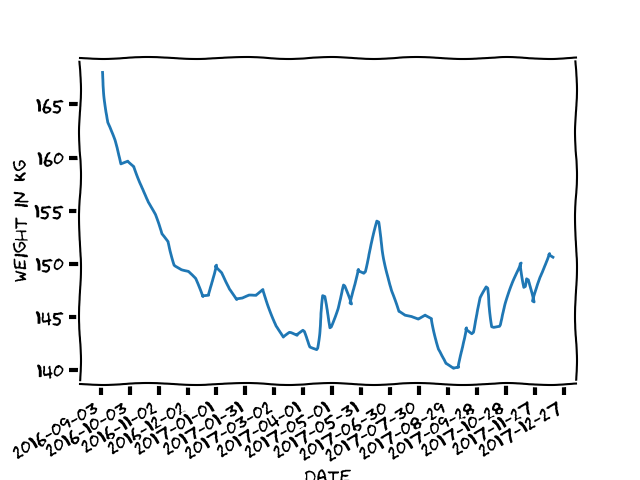
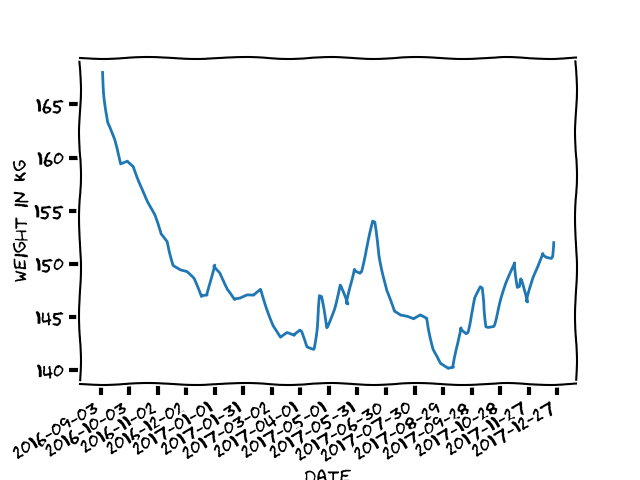
Week 52 update

diff --git a/index.html b/index.html
@@ -30,6 +30,22 @@
   </thead>
   <tbody>
     <tr>
+      <th>2017-12-23</th>
+      <td>152.0</td>
+      <td>1.4</td>
+      <td>-16.0</td>
+      <td>45.4</td>
+      <td>1.8</td>
+    </tr>
+    <tr>
+      <th>2017-12-21</th>
+      <td>150.6</td>
+      <td>-0.1</td>
+      <td>-17.4</td>
+      <td>45.0</td>
+      <td>1.8</td>
+    </tr>
+    <tr>
       <th>2017-12-16</th>
       <td>150.7</td>
       <td>-0.3</td>
